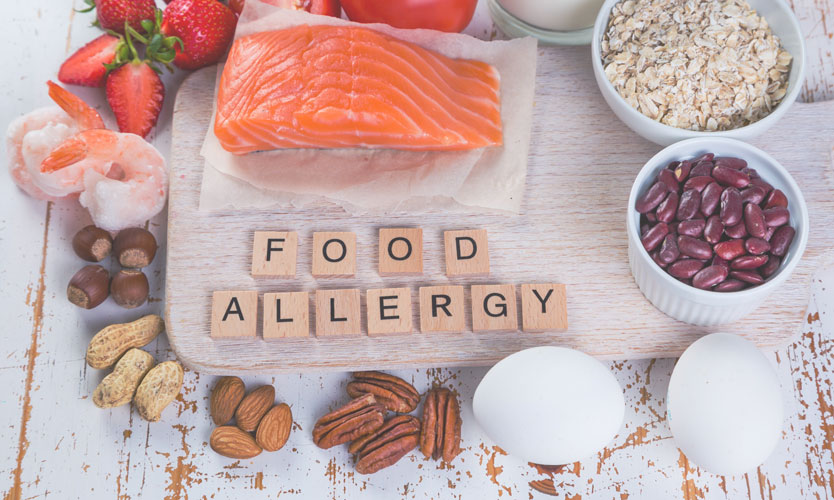
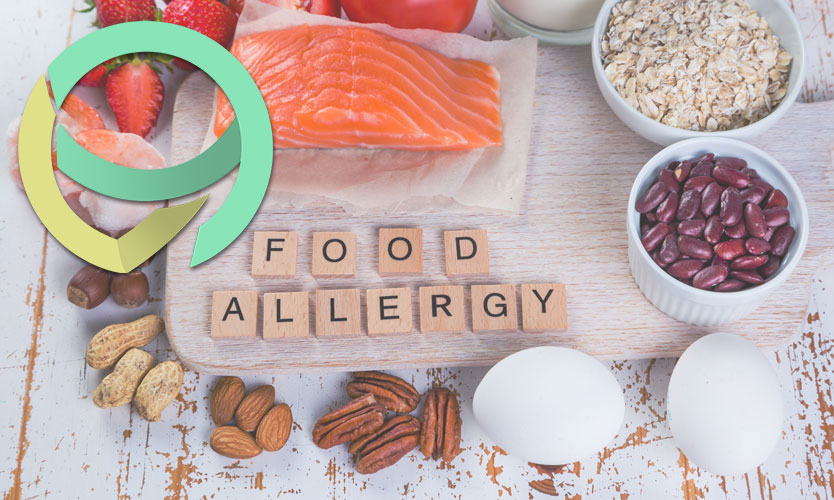
Visual update
Updated logo
Updated Android app name
Updated + Inserted some icons

Changed region(s): [[0.0, 0.03, 0.3429, 0.57]]

diff --git a/lib/Pages/Dialogs/MolecularFamilyToAllergeneDialog.dart b/lib/Pages/Dialogs/MolecularFamilyToAllergeneDialog.dart
@@ -86,7 +86,7 @@ class _MolecularFamilyToAllergeneDialogState extends State<MolecularFamilyToAlle
                 //if (snapshot.hasError) return Text(snapshot.error);
                 if (snapshot.hasData) {
                   initCurrentSelectedAllergene_1(mFamilyAllergene, snapshot.data);
-                  return DropdownButtonFormField(decoration: new InputDecoration(icon: Icon(Icons.ac_unit)),
+                  return DropdownButtonFormField(decoration: new InputDecoration(icon: Icon(Icons.looks_one)),
                     onChanged: (newValue) {setState(() {_selectedAllergene_1 = newValue;});},
                     value: _selectedAllergene_1,//initCurrentSelectedMolecularFamily(molecularAllergene, snapshot.data),
                     items: snapshot.data.map((Allergene molecularAllergene) {
@@ -106,7 +106,7 @@ class _MolecularFamilyToAllergeneDialogState extends State<MolecularFamilyToAlle
                 //if (snapshot.hasError) return Text(snapshot.error);
                 if (snapshot.hasData) {
                   initCurrentSelectedAllergene_2(mFamilyAllergene, snapshot.data);
-                  return DropdownButtonFormField(decoration: new InputDecoration(icon: Icon(Icons.ac_unit)),
+                  return DropdownButtonFormField(decoration: new InputDecoration(icon: Icon(Icons.looks_two)),
                     onChanged: (newValue) {setState(() {_selectedAllergene_2 = newValue;});},
                     value: _selectedAllergene_2,//initCurrentSelectedMolecularFamily(molecularAllergene, snapshot.data),
                     items: snapshot.data.map((Allergene molecularAllergene) {
@@ -127,7 +127,7 @@ class _MolecularFamilyToAllergeneDialogState extends State<MolecularFamilyToAlle
                 //if (snapshot.hasError) return Text(snapshot.error);
                 if (snapshot.hasData) {
                   initCurrentSelectedMolecularFamily(mFamilyAllergene, snapshot.data);
-                  return DropdownButtonFormField(decoration: new InputDecoration(icon: Icon(Icons.airline_seat_flat)),
+                  return DropdownButtonFormField(decoration: new InputDecoration(icon: Icon(Icons.category)),
                     onChanged: (newValue) {setState(() {_selectedMolecularFamily = newValue;});},
                     value: _selectedMolecularFamily,//initCurrentSelectedMolecularFamily(molecularAllergene, snapshot.data),
                     items: snapshot.data.map((MolecularFamily reaction) {
@@ -141,7 +141,7 @@ class _MolecularFamilyToAllergeneDialogState extends State<MolecularFamilyToAlle
 
 
 
-          TextFormField(controller:occurrenceFrequencyController, decoration: InputDecoration(labelText: 'Occurrence Frequency',),
+          TextFormField(controller:occurrenceFrequencyController, decoration: InputDecoration(labelText: 'Occurrence Frequency',icon: Text('%', style: TextStyle(fontSize: 20,fontWeight: FontWeight.w900,color: Colors.grey),)),
               inputFormatters: [WhitelistingTextInputFormatter.digitsOnly],keyboardType: TextInputType.number),
 
         ],),),

diff --git a/lib/Tools/database_helper.dart b/lib/Tools/database_helper.dart
@@ -302,25 +302,35 @@ class DatabaseHelper {
 
 /// ****************************** Allergene **********************************/
 
-  Future<List<Allergene>> getAllergenes() async {
+  Future<List<Allergene>> getAllergens() async {
     Database db = await instance.database;
-    var res = await db.query(allergeneTable);
+    //var res = await db.query(allergeneTable);
+    var res = await db.rawQuery("SELECT id,name,Allergene_type,color,cross_group,image FROM $allergeneTable;");
     return res.isNotEmpty ? res.map((Map<dynamic, dynamic> row) => Allergene.fromJson(row)).toList(): [];
   }
 
-  Future<List<Allergene>> getAllergeneOfType(int type) async {
+  Future<List<Allergene>> getAllergenOfType(int type) async {
     Database db = await instance.database;
     var res = await db.query(allergeneTable, where: 'Allergene_type = $type');
     return res.isNotEmpty ? res.map((Map<dynamic, dynamic> row) => Allergene.fromJson(row)).toList(): [];
   }
 
-  Future<int> insertAllergene(Map<String, dynamic> row) async { return insertQuery(row, allergeneTable);}
-  Future<int> updateAllergene(Map<String, dynamic> row) async { return updateQuery(row, allergeneTable);}
-  Future<int> deleteAllergene(int id) async {
+  Future<int> insertAllergen(Map<String, dynamic> row) async { return insertQuery(row, allergeneTable);}
+  Future<int> updateAllergen(Map<String, dynamic> row) async { return updateQuery(row, allergeneTable);}
+  Future<int> deleteAllergen(int id) async {
     Database db = await instance.database;
     await db.rawDelete('DELETE FROM $molecularFamilyToAllergeneTable WHERE Allergene_1_id = $id OR Allergene_2_id = $id;');
     return deleteQuery(id, allergeneTable);
   }
+
+
+  /**Future<Allergene> getAllergenImage(Allergene allergene) async {
+    Database db = await instance.database;
+    //var res = await db.query(allergeneTable);
+    var res = await db.rawQuery("SELECT image FROM $allergeneTable WHERE id = ${allergene.id} LIMIT 1;");
+    allergene.image = res[0].values.single;
+    return allergene; //res.isNotEmpty ? res.map((Map<dynamic, dynamic> row) => Allergene.fromJson(row)).toList(): [];
+  }*/
 
 
 

diff --git a/lib/arcChooser.dart b/lib/arcChooser.dart
@@ -4,6 +4,7 @@ import 'package:flutter/material.dart';
 import 'package:flutter/painting.dart';
 import 'Beings/ArcItem.dart';
 import 'Tools/GeneralTools.dart';
+import 'Tools/UiTools.dart';
 import 'Tools/database_helper.dart';
 
 typedef void ArcSelectedCallback(int position, ArcItem arcItem);
@@ -156,7 +157,7 @@ class ChooserState extends State<ArcChooser> with SingleTickerProviderStateMixin
 
 
   void getAllergene(int type){ // 0 == pollens, 1 == aliments
-    dbHelper.getAllergeneOfType(type).then((result) {
+    dbHelper.getAllergenOfType(type).then((result) {
       setState(() {
         arcItems = result.length>0 ? result.map((c) => ArcItem(c.name,Color(int.parse(c.color)),c.id,c.crossGroup,c.image)).toList() : List<ArcItem>();
       });
@@ -187,7 +188,7 @@ class ChooserState extends State<ArcChooser> with SingleTickerProviderStateMixin
   void getReactions(int mAllergeneId){ // 0 == pollens, 1 == aliments
     dbHelper.getReactionsOfMolecularAllergenes(mAllergeneId).then((result) {
       setState(() {
-        arcItems = result.length>0 ? result.map((c) => ArcItem(c.adapted_treatment,colorLvl[c.level],c.id,'',null)).toList() : List<ArcItem>();
+        arcItems = result.length>0 ? result.map((c) => ArcItem(c.adapted_treatment,colorLvl[c.level],c.id,UiTools.getReactionByLvl(c.level),null)).toList() : List<ArcItem>();
       });
       refreshRouletteWheelData();
     });
@@ -267,8 +268,6 @@ class ChooserPainter extends CustomPainter {
     //common calc
     double centerX = size.width / 2;
     double centerY = screenOrientation == Orientation.landscape? screenWidth:screenHeight;//size.height * 1.1;
-
-    print(screenHeight.toString());
 
     Offset center = Offset(centerX, centerY);
     double radius = sqrt((size.width * size.width) / 3);

diff --git a/lib/Pages/CmsTabs/AllergenesTab.dart b/lib/Pages/CmsTabs/AllergenesTab.dart
@@ -179,12 +179,12 @@ class _AllergenesTabState extends State<AllergenesTab> {
 
 
   Future<List<Allergene>> refreshAllergeneList() async {
-    setState(() {allergeneList = dbHelper.getAllergenes();});
+    setState(() {allergeneList = dbHelper.getAllergens();});
     return allergeneList;
   }
 
   void deleteAllergenes(int index) async {
-    bool success = await dbHelper.deleteAllergene(index) > 0; // if deleted something
+    bool success = await dbHelper.deleteAllergen(index) > 0; // if deleted something
     if (success) {
       refreshAllergeneList();
       onAllergensChangeEvent();
@@ -200,8 +200,8 @@ class _AllergenesTabState extends State<AllergenesTab> {
     if (returnedValue != null){
       bool isEdit = returnedValue.id != 0;
 
-      int id = isEdit ? await dbHelper.updateAllergene(returnedValue.toJson()):
-                        await dbHelper.insertAllergene(returnedValue.toJsonNoId());
+      int id = isEdit ? await dbHelper.updateAllergen(returnedValue.toJson()):
+                        await dbHelper.insertAllergen(returnedValue.toJsonNoId());
 
       bool success = id>0;
       if(success) {
@@ -218,7 +218,7 @@ class _AllergenesTabState extends State<AllergenesTab> {
 
   void updateAllergeneColor(Allergene tempValue, String color){ /** This should be optimised **/
     tempValue.color = color;
-    dbHelper.updateAllergene(tempValue.toJson());
+    dbHelper.updateAllergen(tempValue.toJson());
     refreshAllergeneList();
     onAllergensChangeEvent();
   }

diff --git a/lib/Pages/Dialogs/ReactionToMolecularAllergeneDialog.dart b/lib/Pages/Dialogs/ReactionToMolecularAllergeneDialog.dart
@@ -71,7 +71,7 @@ class _ReactionToMolecularAllergeneDialogState extends State<ReactionToMolecular
                 //if (snapshot.hasError) return Text(snapshot.error);
                 if (snapshot.hasData) {
                   initCurrentSelectedMolecularAllergene(mAllergeneReaction, snapshot.data);
-                  return DropdownButtonFormField(decoration: new InputDecoration(icon: Icon(Icons.ac_unit)),
+                  return DropdownButtonFormField(decoration: new InputDecoration(icon: Icon(Icons.bubble_chart)),
                       onChanged: (newValue) {setState(() {_selectedMolecularAllergene = newValue;});},
                       value: _selectedMolecularAllergene,//initCurrentSelectedMolecularFamily(molecularAllergene, snapshot.data),
                       items: snapshot.data.map((MolecularAllergene molecularAllergene) {

diff --git a/lib/Pages/Dialogs/MolecularAllergeneDialog.dart b/lib/Pages/Dialogs/MolecularAllergeneDialog.dart
@@ -65,7 +65,7 @@ class _MolecularAllergeneDialogState extends State<MolecularAllergeneDialog> {
               if (snapshot.hasData) {
                 initCurrentSelectedMolecularFamily(molecularAllergene, snapshot.data);
 
-                return DropdownButtonFormField(decoration: new InputDecoration(icon: Icon(Icons.ac_unit)),
+                return DropdownButtonFormField(decoration: new InputDecoration(icon: Icon(Icons.category)),
                   onChanged: (newValue) {setState(() {_selectedMolecularFamily = newValue;});},
                   value: _selectedMolecularFamily,//initCurrentSelectedMolecularFamily(molecularAllergene, snapshot.data),
                   items: snapshot.data.map((MolecularFamily molecularFamily) {

diff --git a/lib/Pages/Dialogs/AllergeneDialog.dart b/lib/Pages/Dialogs/AllergeneDialog.dart
@@ -62,7 +62,7 @@ class _AllergeneDialogState extends State<AllergeneDialog> {
             TextFormField(controller:allergeneNameController, decoration: InputDecoration(labelText: 'Allergene Name',),
                 validator: (value) { if (value.isEmpty) { return 'Please enter some text';} return null;},),
 
-            DropdownButton(value: _selectedType,
+            DropdownButtonFormField(value: _selectedType,decoration: new InputDecoration(icon: Icon(Icons.local_florist)),
               onChanged: (newValue) { setState(() {_selectedType = newValue;});},
               items: _typeList.map((location) { return DropdownMenuItem(child: new Text(location), value: location,);}).toList(),
             ),

diff --git a/lib/Tools/UiTools.dart b/lib/Tools/UiTools.dart
@@ -2,7 +2,7 @@ import 'package:flutter/material.dart';
 
 class UiTools {
 
-  static List<String> _reactionLevelList = ['Light', 'Moderate','Severe'];
+  static List<String> _reactionLevelList = ['Clinical relevance absent or weak', 'Oral allergy syndrome','Systemic reaction'];
 
   static void newSnackBar(String msg, Color color, int duration,context){
     Scaffold.of(context).showSnackBar(SnackBar(

diff --git a/lib/Beings/Allergene.dart b/lib/Beings/Allergene.dart
@@ -19,7 +19,7 @@ class Allergene {
   }
 
   factory Allergene.fromJson(Map<String, dynamic> json){
-    return new Allergene(json["id"],json["name"],json["Allergene_type"],json["color"],json["cross_group"],json["image"]);
+    return new Allergene(json["id"],json["name"],json["Allergene_type"],json["color"],json["cross_group"],json["image"]/*null*/);
   }
 
   Map<String, dynamic> toJson() {

diff --git a/lib/main.dart b/lib/main.dart
@@ -5,7 +5,7 @@ import 'Pages/DemonstrationPage.dart';
 void main() {
   runApp(MaterialApp(
     home: CustomSplash(
-      imagePath: 'assets/images/Logo.png',
+      imagePath: 'assets/images/astroLabe-Logo.png',
       backGroundColor: Color.fromRGBO(20, 20, 30, 1),
       animationEffect: 'zoom-in',
       home: DemonstrationPage(),

diff --git a/lib/Pages/CmsTabs/MolecularFamilyToAllergeneTab.dart b/lib/Pages/CmsTabs/MolecularFamilyToAllergeneTab.dart
@@ -42,7 +42,7 @@ class _MolecularFamilyToAllergeneTabState extends State<MolecularFamilyToAllerge
 
   @override
   void initState() {
-    allergeneList = dbHelper.getAllergenes();
+    allergeneList = dbHelper.getAllergens();
     molecularFamilyList = dbHelper.getMolecularFamilies();
 
     super.initState();
